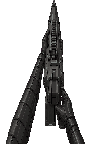
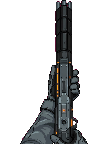
godot: 积压观感批 — HUD右侧组并排 + 霰弹枪手持模型重制 + 简报换行修复
- HUD 底栏右侧组(防护/生命/金币)改右锚并排单行, 消除弹药行与
  右侧组重叠(断言改全局坐标换算: 弹药右缘320 <= 右组左缘348)
- 霰弹枪手持模型重制定稿: 黑聚合物+下插直弹匣+双手持握,
  108x144 底对齐, 武器数值零改动; 抠像管线脚本
  assets-src/shotgun/process_viewmodel_r2.py 入档可复现
- 简报文字出界修复: 内容限宽 720 + AUTOWRAP_WORD_SMART 自动换行
- 导入缓存坑: 源贴图更新后须 --headless --import 再启动
  (霰弹枪模型"没应用"即旧 .godot 缓存所致)
- SmokeTest 101->102: HUD 右侧组并排双布局不变式 + 墙面贴花
  数量断言(数据驱动, 由下一批 wallDecals 配置激活)

自检: ①②③④ 通过

diff --git a/assets-src/shotgun/process_viewmodel_r2.py b/assets-src/shotgun/process_viewmodel_r2.py
@@ -1,0 +1,68 @@
+# -*- coding: utf-8 -*-
+"""Shotgun viewmodel r2 pipeline (reproducible):
+raw(AI, magenta bg) -> key out bg -> remove watermark zone -> crop bbox
+-> nearest-scale into 108x144 canvas (bottom-aligned, horizontally centered)
+-> godot/assets/images/WeaponShotgun.png
+"""
+import math
+import os
+
+from PIL import Image, ImageDraw
+
+ROOT = os.path.dirname(os.path.abspath(__file__))
+REPO = os.path.dirname(os.path.dirname(ROOT))
+SRC = os.path.join(ROOT, "viewmodel_final_raw.png")
+DST = os.path.join(REPO, "godot", "assets", "images", "WeaponShotgun.png")
+KEY_POS = (8, 8)
+SIM = 0.22          # colorkey similarity (normalized RGB distance)
+BLEND = 0.10        # colorkey blend band
+MAXD = math.sqrt(3.0) * 255.0
+CANVAS_W, CANVAS_H = 108, 144
+
+
+def main():
+    img = Image.open(SRC).convert("RGBA")
+    w, h = img.size
+    key = img.getpixel(KEY_POS)[:3]
+    print("raw=%dx%d key=%s" % (w, h, key))
+
+    # Paint watermark zone (bottom-right) with the key color so it keys out.
+    draw = ImageDraw.Draw(img)
+    draw.rectangle([int(w * 0.70), int(h * 0.90), w - 1, h - 1], fill=key + (255,))
+
+    lo = SIM * MAXD
+    hi = (SIM + BLEND) * MAXD
+    px = img.load()
+    kr, kg, kb = key
+    for y in range(h):
+        for x in range(w):
+            r, g, b, a = px[x, y]
+            d = math.sqrt((r - kr) ** 2 + (g - kg) ** 2 + (b - kb) ** 2)
+            if d <= lo:
+                px[x, y] = (r, g, b, 0)
+            elif d < hi:
+                t = (d - lo) / (hi - lo)
+                px[x, y] = (r, g, b, int(t * 255))
+
+    box = img.getbbox()
+    if box is None:
+        raise SystemExit("keying removed everything - check key color")
+    crop = img.crop(box)
+    cw, ch = crop.size
+    print("bbox=%s crop=%dx%d" % (box, cw, ch))
+
+    scale = min(CANVAS_W / cw, CANVAS_H / ch)
+    nw = max(1, int(round(cw * scale)))
+    nh = max(1, int(round(ch * scale)))
+    scaled = crop.resize((nw, nh), Image.NEAREST)
+
+    canvas = Image.new("RGBA", (CANVAS_W, CANVAS_H), (0, 0, 0, 0))
+    ox = (CANVAS_W - nw) // 2
+    oy = CANVAS_H - nh  # bottom-aligned: stock sits on the HUD frame bottom
+    canvas.paste(scaled, (ox, oy))
+    canvas.save(DST)
+    print("saved %s (%dx%d, gun %dx%d at +%d+%d)" % (DST, CANVAS_W, CANVAS_H, nw, nh, ox, oy))
+
+
+if __name__ == "__main__":
+    main()
